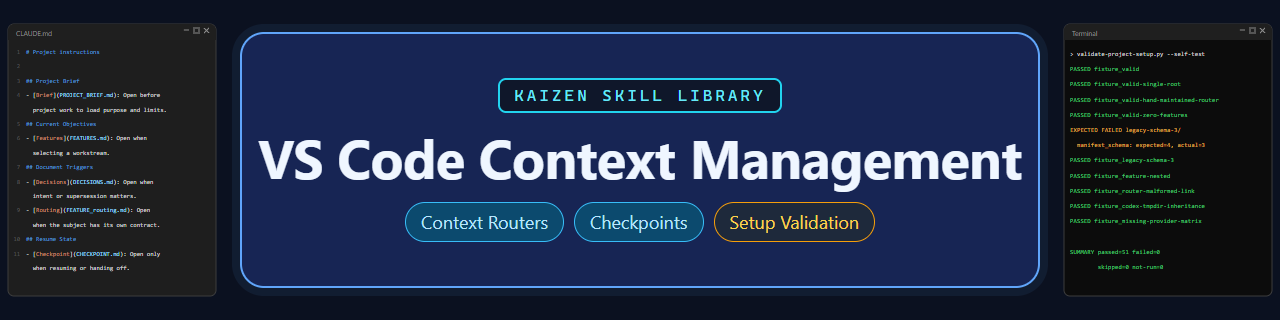
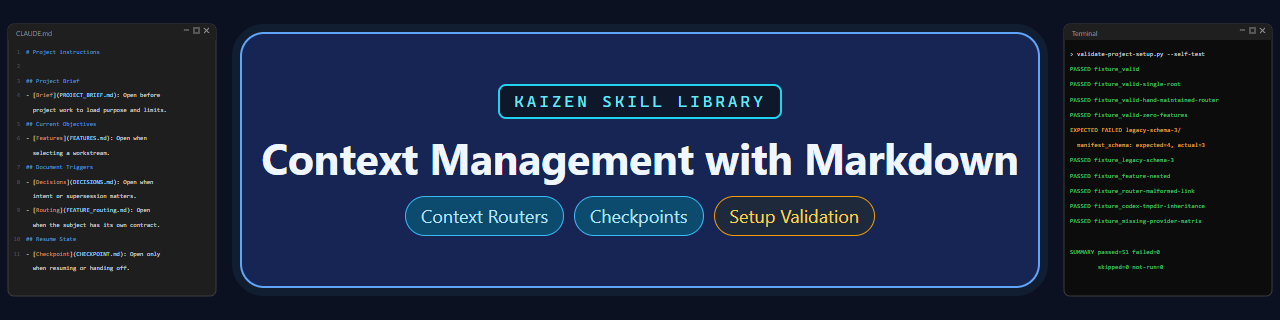
update README

Changed region(s): [[0.1875, 0.4375, 0.8125, 0.7812], [0.375, 0.2188, 0.625, 0.375]]

diff --git a/README.md b/README.md
@@ -1,6 +1,6 @@
-# VS Code Context Management Agent Skill for Claude Code and Codex
+# Context Management with Markdown Agent Skill for Claude Code and Codex
 
-![VS Code Context Management agent skill: Context Routers, Checkpoints, Setup Validation](.github/readme-banner.png)
+![Context Management with Markdown agent skill: Context Routers, Checkpoints, Setup Validation](.github/readme-banner.png)
 
 > [!WARNING]
 > **Work in progress.** This skill is incomplete. A custom harness, or plugins that use current frontier context-management approaches, will serve a project better than Markdown-based context management like this. Use this skill to learn the pattern or where a plugin-free setup is required.

diff --git a/.github/CONTRIBUTING.md b/.github/CONTRIBUTING.md
@@ -1,4 +1,4 @@
-# Contributing to VS Code Context Management Agent Skill
+# Contributing to Context Management with Markdown Agent Skill
 
 Pull requests are accepted from approved contributors only.
 
